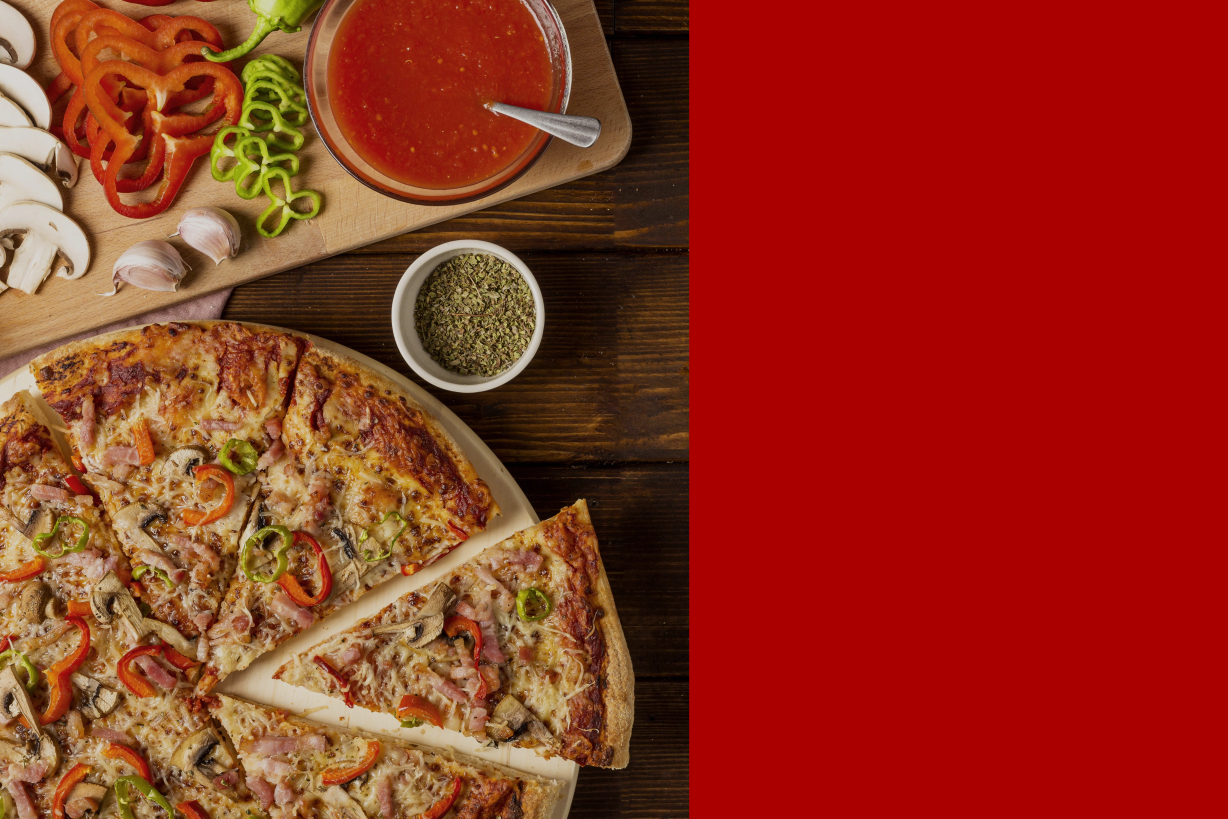
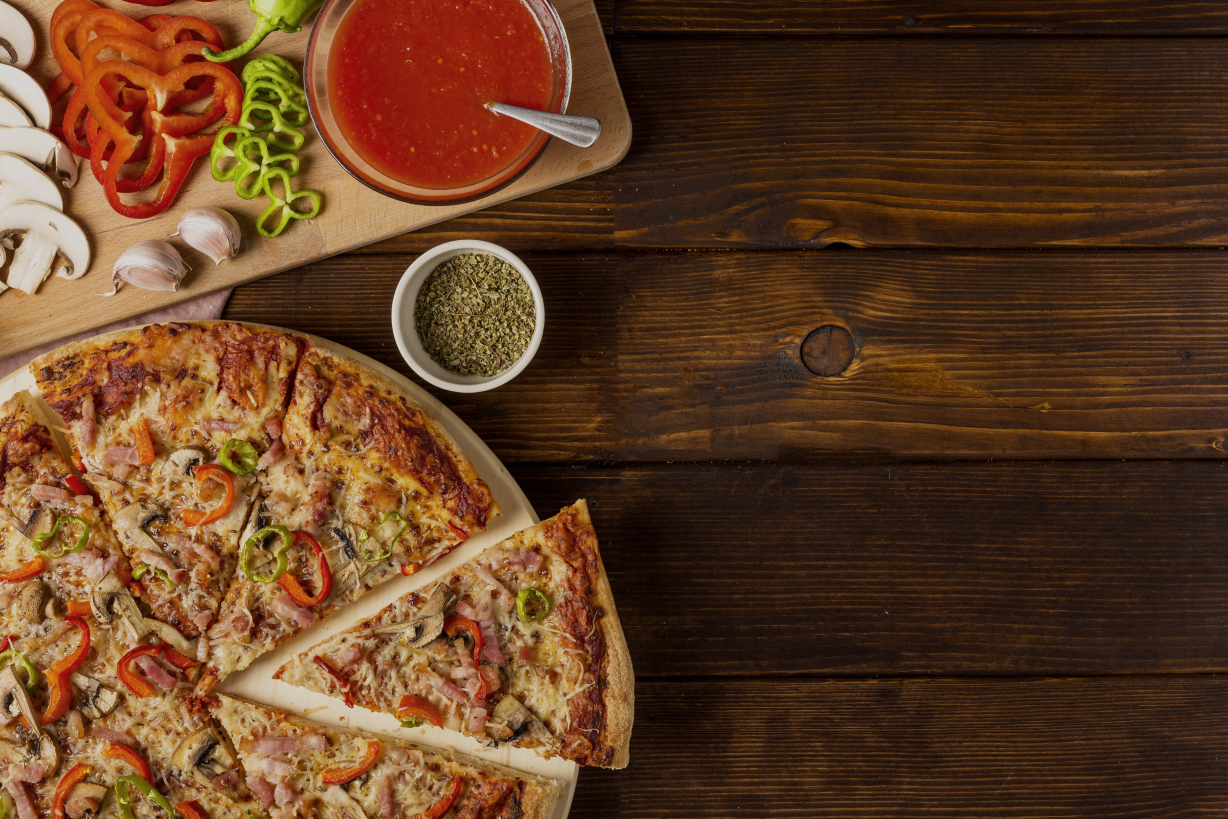
Algumas alterações feitas e adicionado a responsividade no index

diff --git a/js/contact.js b/js/contact.js
@@ -1,0 +1,105 @@
+let form = document.getElementById("form_contact");
+let nname = document.getElementById("name");
+let email = document.getElementById("email");
+let phone = document.getElementById("fone");
+let subject = document.getElementById("subject");
+let msg = document.getElementById("msg");
+
+form.addEventListener('submit', submitForm);
+nname.addEventListener('blur', validateName);
+email.addEventListener('blur', validateEmail);
+phone.addEventListener('blur', validatePhone);
+subject.addEventListener('blur', validateSubject);
+msg.addEventListener('blur', validateMsg);
+msg.addEventListener('keyup', countMsg);
+
+
+function validateName(){
+    let div = document.getElementById("error_name");
+    nname.value = nname.value.trim();
+    if(nname.value == "" || nname.value.split(" ").length < 2){
+        div.innerHTML = "Fill in the full name!";
+        div.classList.add("error_form");
+        return false;
+    } 
+    else{
+        div.innerHTML = "";
+        div.classList.remove("error_form");
+        return true;
+    }
+}
+
+function validateEmail(){
+    let div = document.getElementById("error_email");
+    email.value = email.value.trim();
+    if(email.value == "" || email.value.indexOf("@") == -1){
+        div.innerHTML = "Fill in the email correctly!"; 
+        div.classList.add("error_form");
+        return false;
+    } 
+    else{
+        div.innerHTML = "";
+        div.classList.remove("error_form");
+        return true;
+    }
+}
+
+function validatePhone(){
+    let div = document.getElementById("error_phone");
+    let expr = /(\(?\d{2}\)?\s)?(\d{4,5}\-?\d{4})/;
+    console.log(expr.test(phone.value));
+    if(!expr.test(phone.value)){
+        div.innerHTML = "Fill the phone correctly!";
+        div.classList.add("error_form");
+        return false;
+    }
+    else{
+        div.innerHTML = "";
+        div.classList.remove("error_form");
+        return true;
+    }
+}
+
+function validateSubject(){
+    let div = document.getElementById("error_subject");
+    if(subject.selectedIndex == 0){
+        div.innerHTML = "Select the subject!"; 
+        div.classList.add("error_form");
+        return false;
+    } 
+    else{
+        div.innerHTML = "";
+        div.classList.remove("error_form");
+        return true;
+    }
+}
+
+function validateMsg(){
+    let div = document.getElementById("error_msg");
+    if(msg.value == ""){
+        div.innerHTML = "The message cannot be empty!"; 
+        div.classList.add("error_form");
+        return false;
+    } 
+    else{
+        div.innerHTML = "";
+        div.classList.remove("error_form");
+        return true;
+    }
+}
+
+function submitForm(event){
+    if(!(validateName() && validateEmail() && validatePhone() && validateSubject() && validateMsg())){
+        event.preventDefault();
+    }
+    else{
+        alert("Data OK to send to back-end!");
+    }
+}
+
+function countMsg(){
+    if(msg.textLength > 300){
+        msg.value = msg.value.substring(0, msg.value.length-1);
+    }
+    document.getElementById("count").innerHTML = msg.textLength + "/300";
+} 

diff --git a/html/contact.html b/html/contact.html
@@ -55,19 +55,22 @@
     </nav>
     <main>
         <div id="part-one">
-            <form> 
+            <form method="get" id="form_contact" novalidate> 
                 <h2 class="tit">Contact Us</h2>
                 <div>
                     <label for="name" class="t">Name:</label>
                     <input type="text" name="name" id="name" size="50" maxlength="50" required autocomplete="off" autofocus>
+                    <div id="error_name"></div>
                 </div>
                 <div>
                     <label for="email" class="t">E-mail:</label>
                     <input type="email" name="email" id="email">
+                    <div id="error_email"></div>
                 </div>
                 <div>
                     <label for="fone" class="t">Phone:</label>
-                    <input type="tel" name="phone" id="fone" pattern="\([0-9]{2}\)[0-9]{5}-[0-9]{4}">
+                    <input type="tel" name="phone" id="fone">
+                    <div id="error_phone"></div>
                 </div>
                 <div>
                     <label for="subject" class="t">Subject:</label>
@@ -78,10 +81,13 @@
                         <option value="3">Reviews</option>
                         <option value="4">Compliments</option>
                     </select>
+                    <div id="error_subject"></div>
                 </div>
                 <div>
                     <label for="msg" class="t">Message:</label><br>
-                    <textarea name="message" id="msg"></textarea>
+                    <textarea name="mensagem" id="msg" cols="70" rows="5"></textarea>
+                    <div id="count">0/300</div>
+                    <div id="error_msg"></div>
                 </div>
                 <div>
                     <input type="submit" name="send" value="Submit">
@@ -137,4 +143,5 @@
         </div>
     </footer>
 </body>
+<script src="../js/contact.js"></script>
 </html>

diff --git a/css/index.css b/css/index.css
@@ -1,32 +1,65 @@
-body {
-    background-image: url(../images/Pizza1.png);
-    background-size: cover;
-    background-repeat: no-repeat;
+.container {
+	display: grid;
+	grid-template-columns: 1.5fr 1fr;
+	grid-template-rows: 90vh 10vh;
+}
+
+.logo {
+    grid-column: 1/3;
+    grid-row: 1/2;
+    text-align: center;
+    background-color: #AA0000;
+}
+
+.button {
+    grid-column: 1/3;
+    grid-row: 2/3;
+    text-align: center;
+    background-color: #AA0000;
+}
+
+#image {
+    display: none;
 }
 
 #logo {
-    position: absolute;
-    top: 20%;
-    left: 60%;
+    width: 80%;
+    position: relative;
+    top: 25vh;
 }
 
-form {
-    position: absolute;
-    top: 85%;
-    left: 74%;
-}
-
-button {
-    text-align: center;
-    font-weight: bold;
-    border: none;
-    height: 40px;
-    width: 150px;
-    border-radius: 20px;
-    margin-top: 50px;
+.button a {
+    text-decoration: none;
     color: #FFF;
-    font-size: 1.4rem;
+    font-weight: bold;
+    font-size: 1.5rem;
     font-family: Rekha;
-    background-color: #AA0000;
     cursor: pointer;
+}
+
+
+@media (min-width: 850px){
+
+    .image {
+        grid-column: 1/2;
+        grid-row: 1/3;
+        background-image: url(../images/Pizza1.png);
+        background-size: cover;
+        background-repeat: no-repeat;
+    }
+
+    .logo {
+        grid-column: 2/3;
+        grid-row: 1/2;
+        text-align: center;
+        background-color: #AA0000;
+    }
+
+    .button {
+        grid-column: 2/3;
+        grid-row: 2/3;
+        text-align: center;
+        background-color: #AA0000;
+    }
+    
 }

diff --git a/html/index.html b/html/index.html
@@ -15,15 +15,16 @@
     <meta name="author" content="Karen Mentges">
 </head>
 <body>
-    <header>
-        <div>
-            <img src="../images/BonAppetit1.png" width="660,72" id="logo" alt="Bon Appetit">
+    <div class="container">
+        <div class="image"></div>
+        <div class="logo">
+            <div>
+                <img src="../images/BonAppetit1.png" width="660,72" id="logo" alt="Bon Appetit">
+            </div>
         </div>
-    </header>
-    <footer>
-        <form action="whoweare.html">
-            <button>Continue &rarr;</button>
-        </form>
-    </footer>
+        <div class="button">
+            <a href="whoweare.html"> Continue &rarr; </a>
+        </div>
+    </div>
 </body>
 </html>

diff --git a/css/contact.css b/css/contact.css
@@ -199,6 +199,15 @@ aside {
     font-size: 1.8rem;
 }
 
+/* .error_form {
+    border-color: black;
+    border-style: dashed;
+    border-width: 2px;
+    color: red;
+	font-style: italic;
+	font-size: 0.9em;
+} */
+
 
 
 /* Rodapé */
